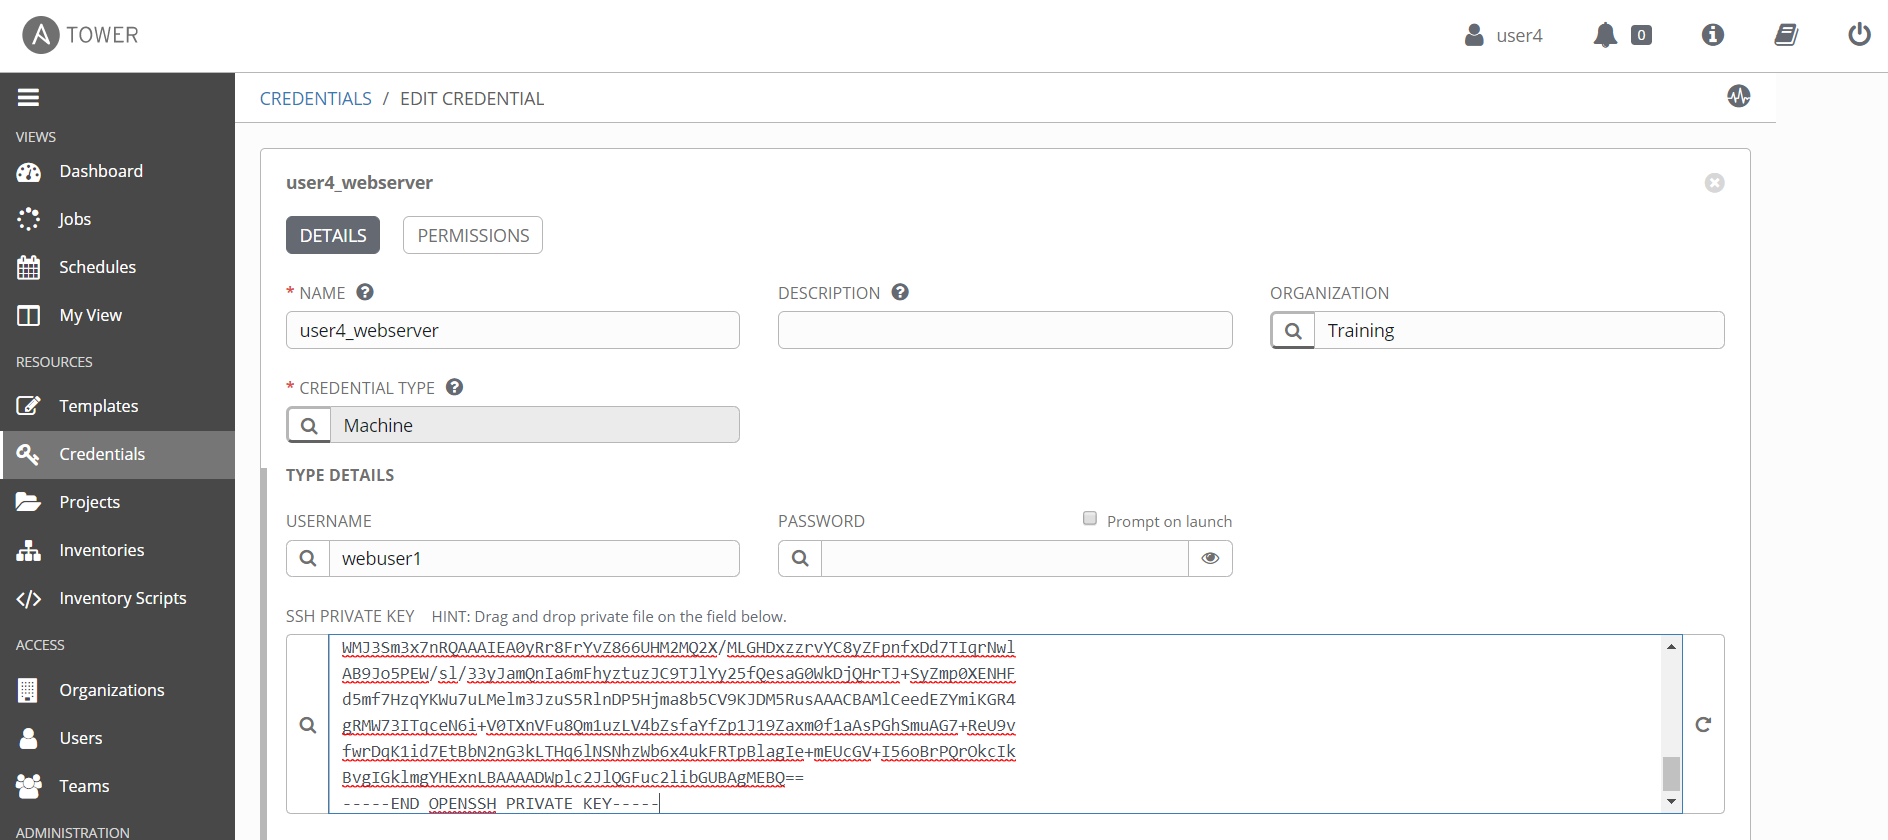
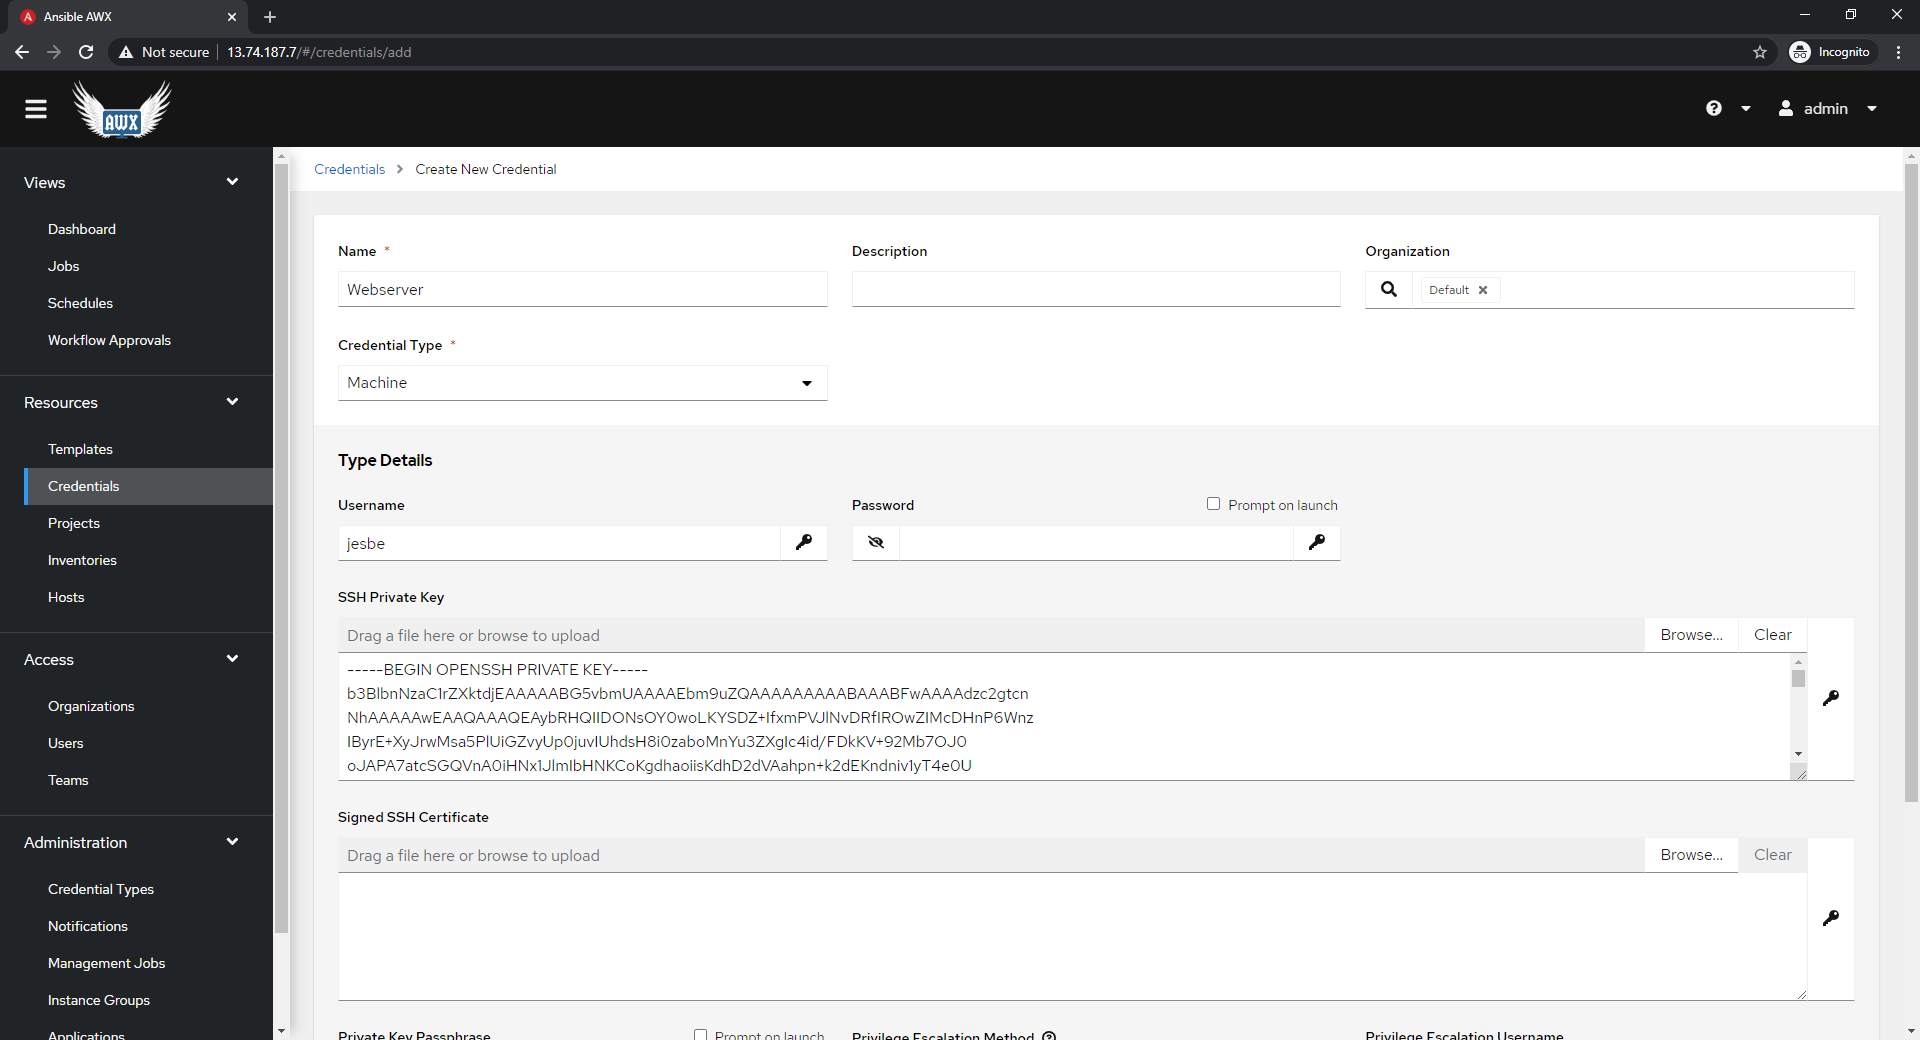
create ssh cred

diff --git a/lab08/lab8.md b/lab08/lab8.md
@@ -324,7 +324,7 @@ Create a new credential matching the webservers public key
 
 Click on Credentials in the left pane
 
-Click on the green + to create a new credential
+Click on Add to create a new credential
 
 __Name:__ webserver
 
@@ -332,7 +332,7 @@ __Organization:__ Default
 
 Credential Type: Machine
 
-__Username:__ __webuser__ <---- Change to your username
+__Username:__ __jesbe__ <---- Change to your initials
 
 __SSH Private Key:__ --- the key you copied ---
 
